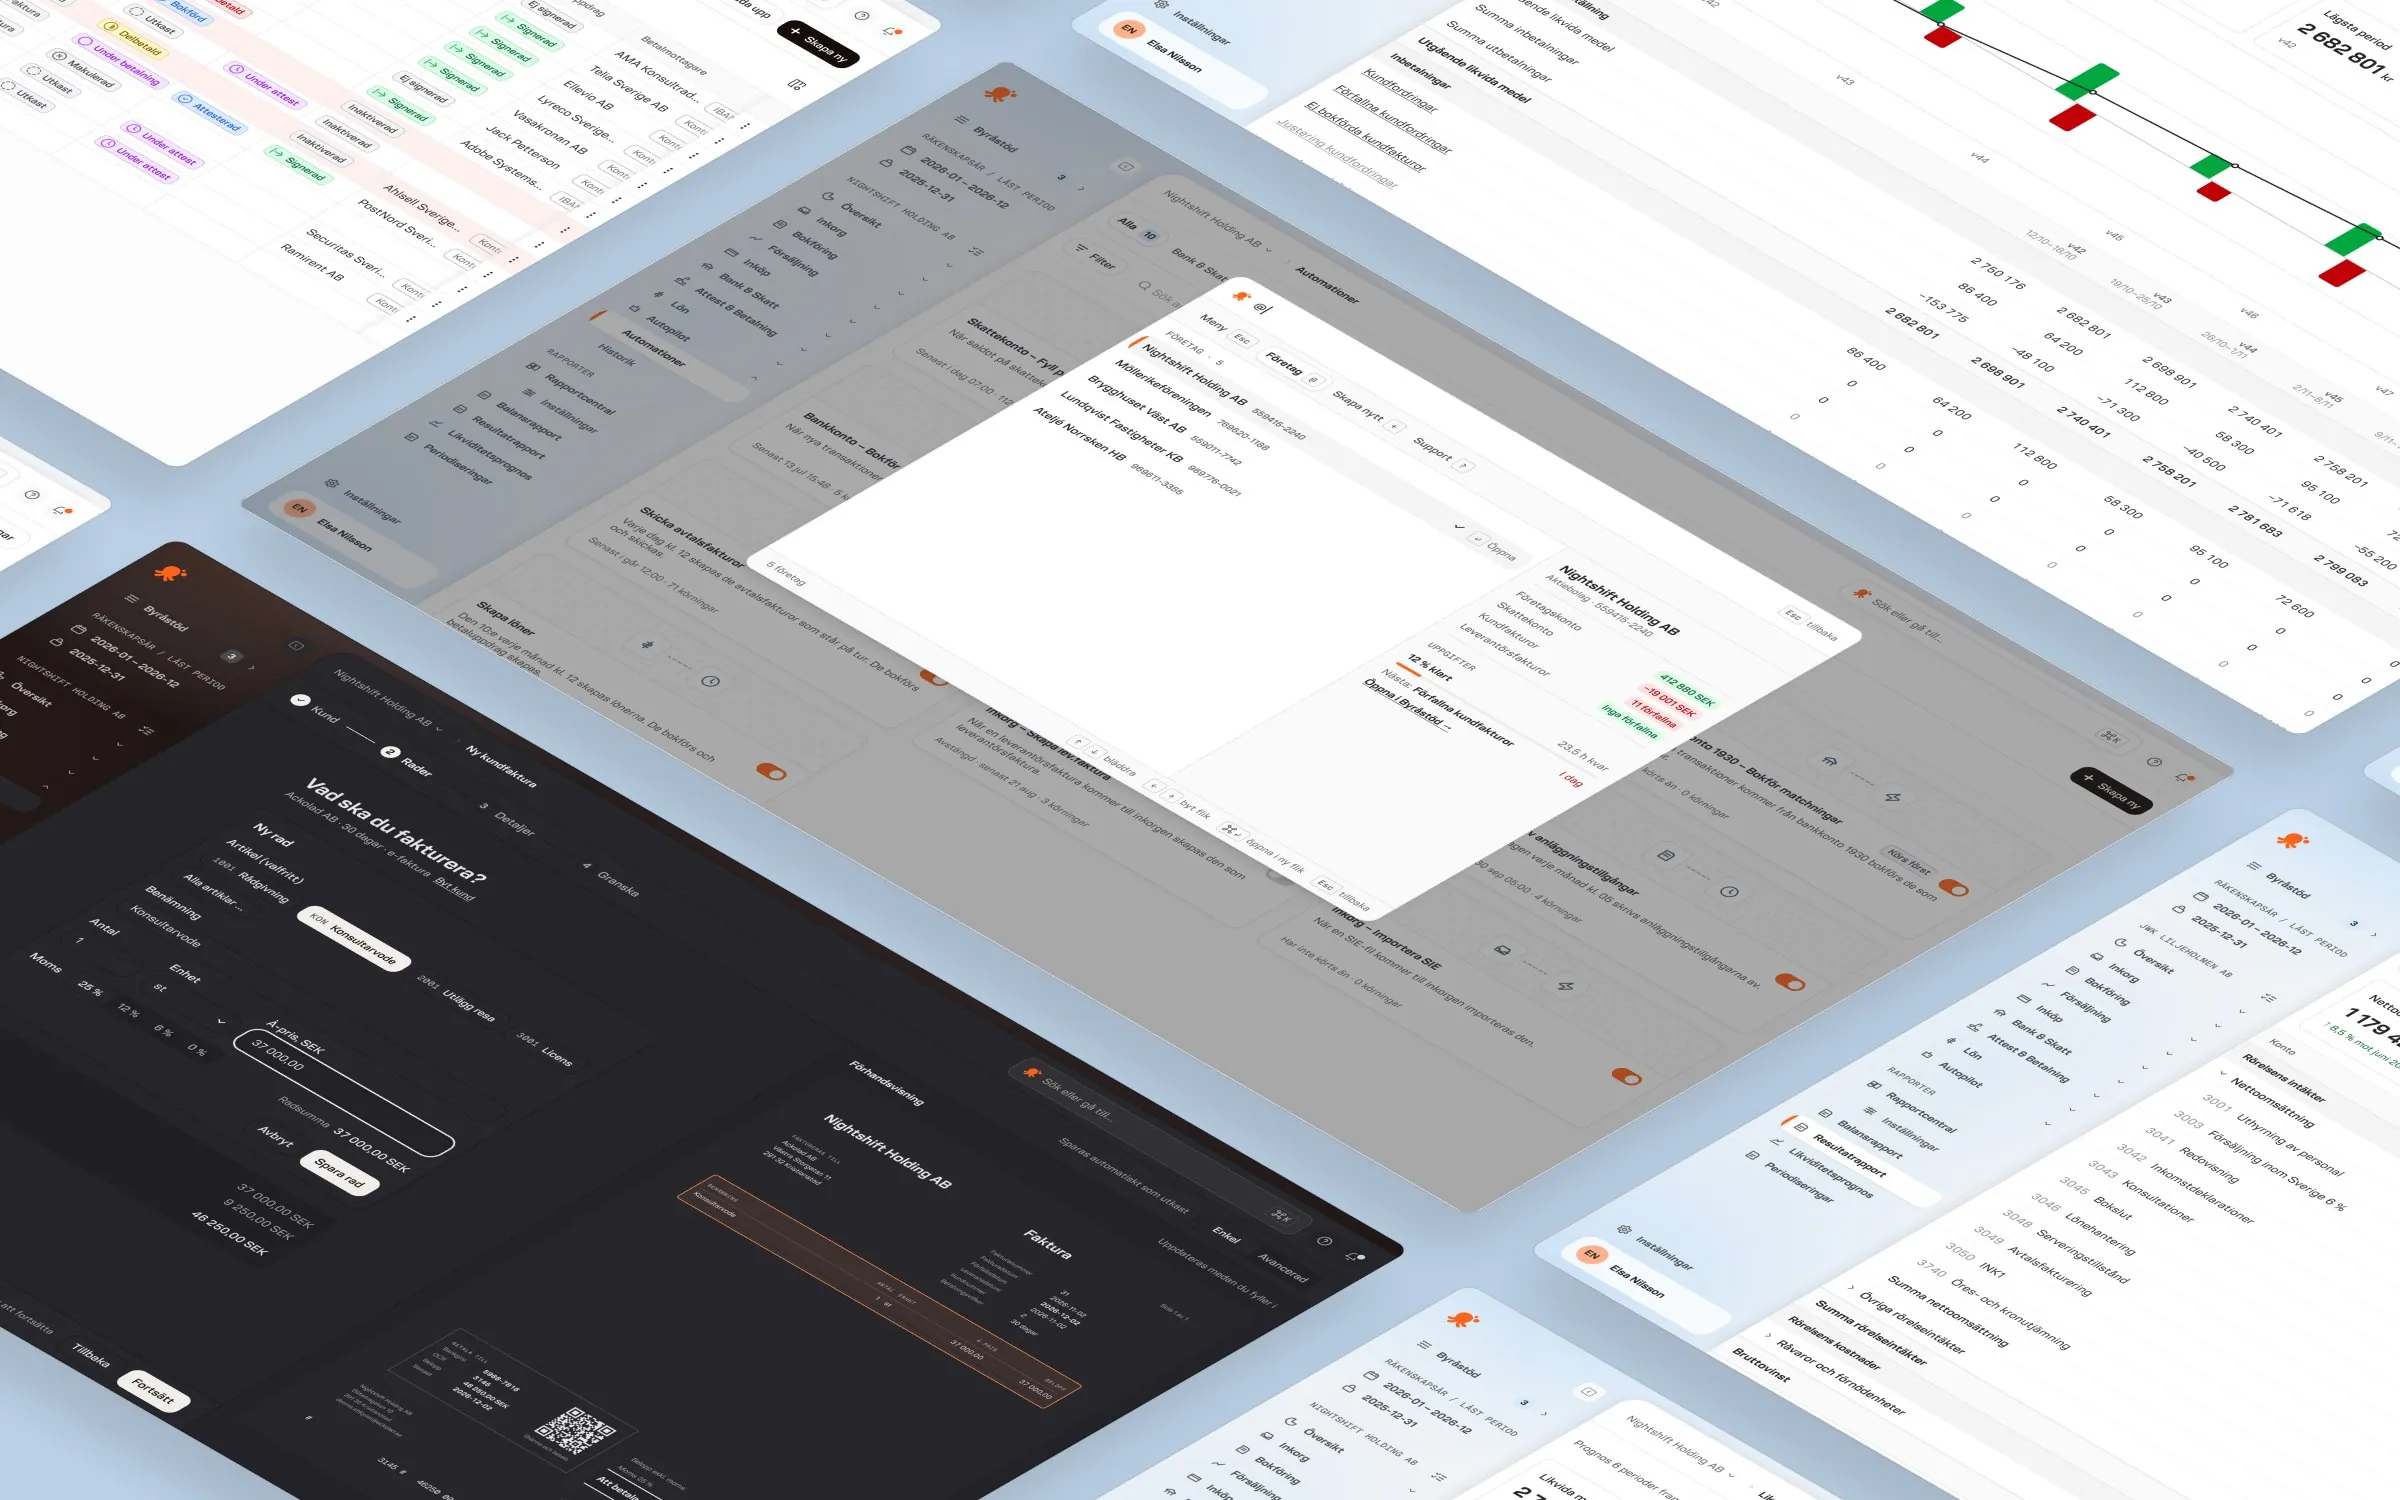
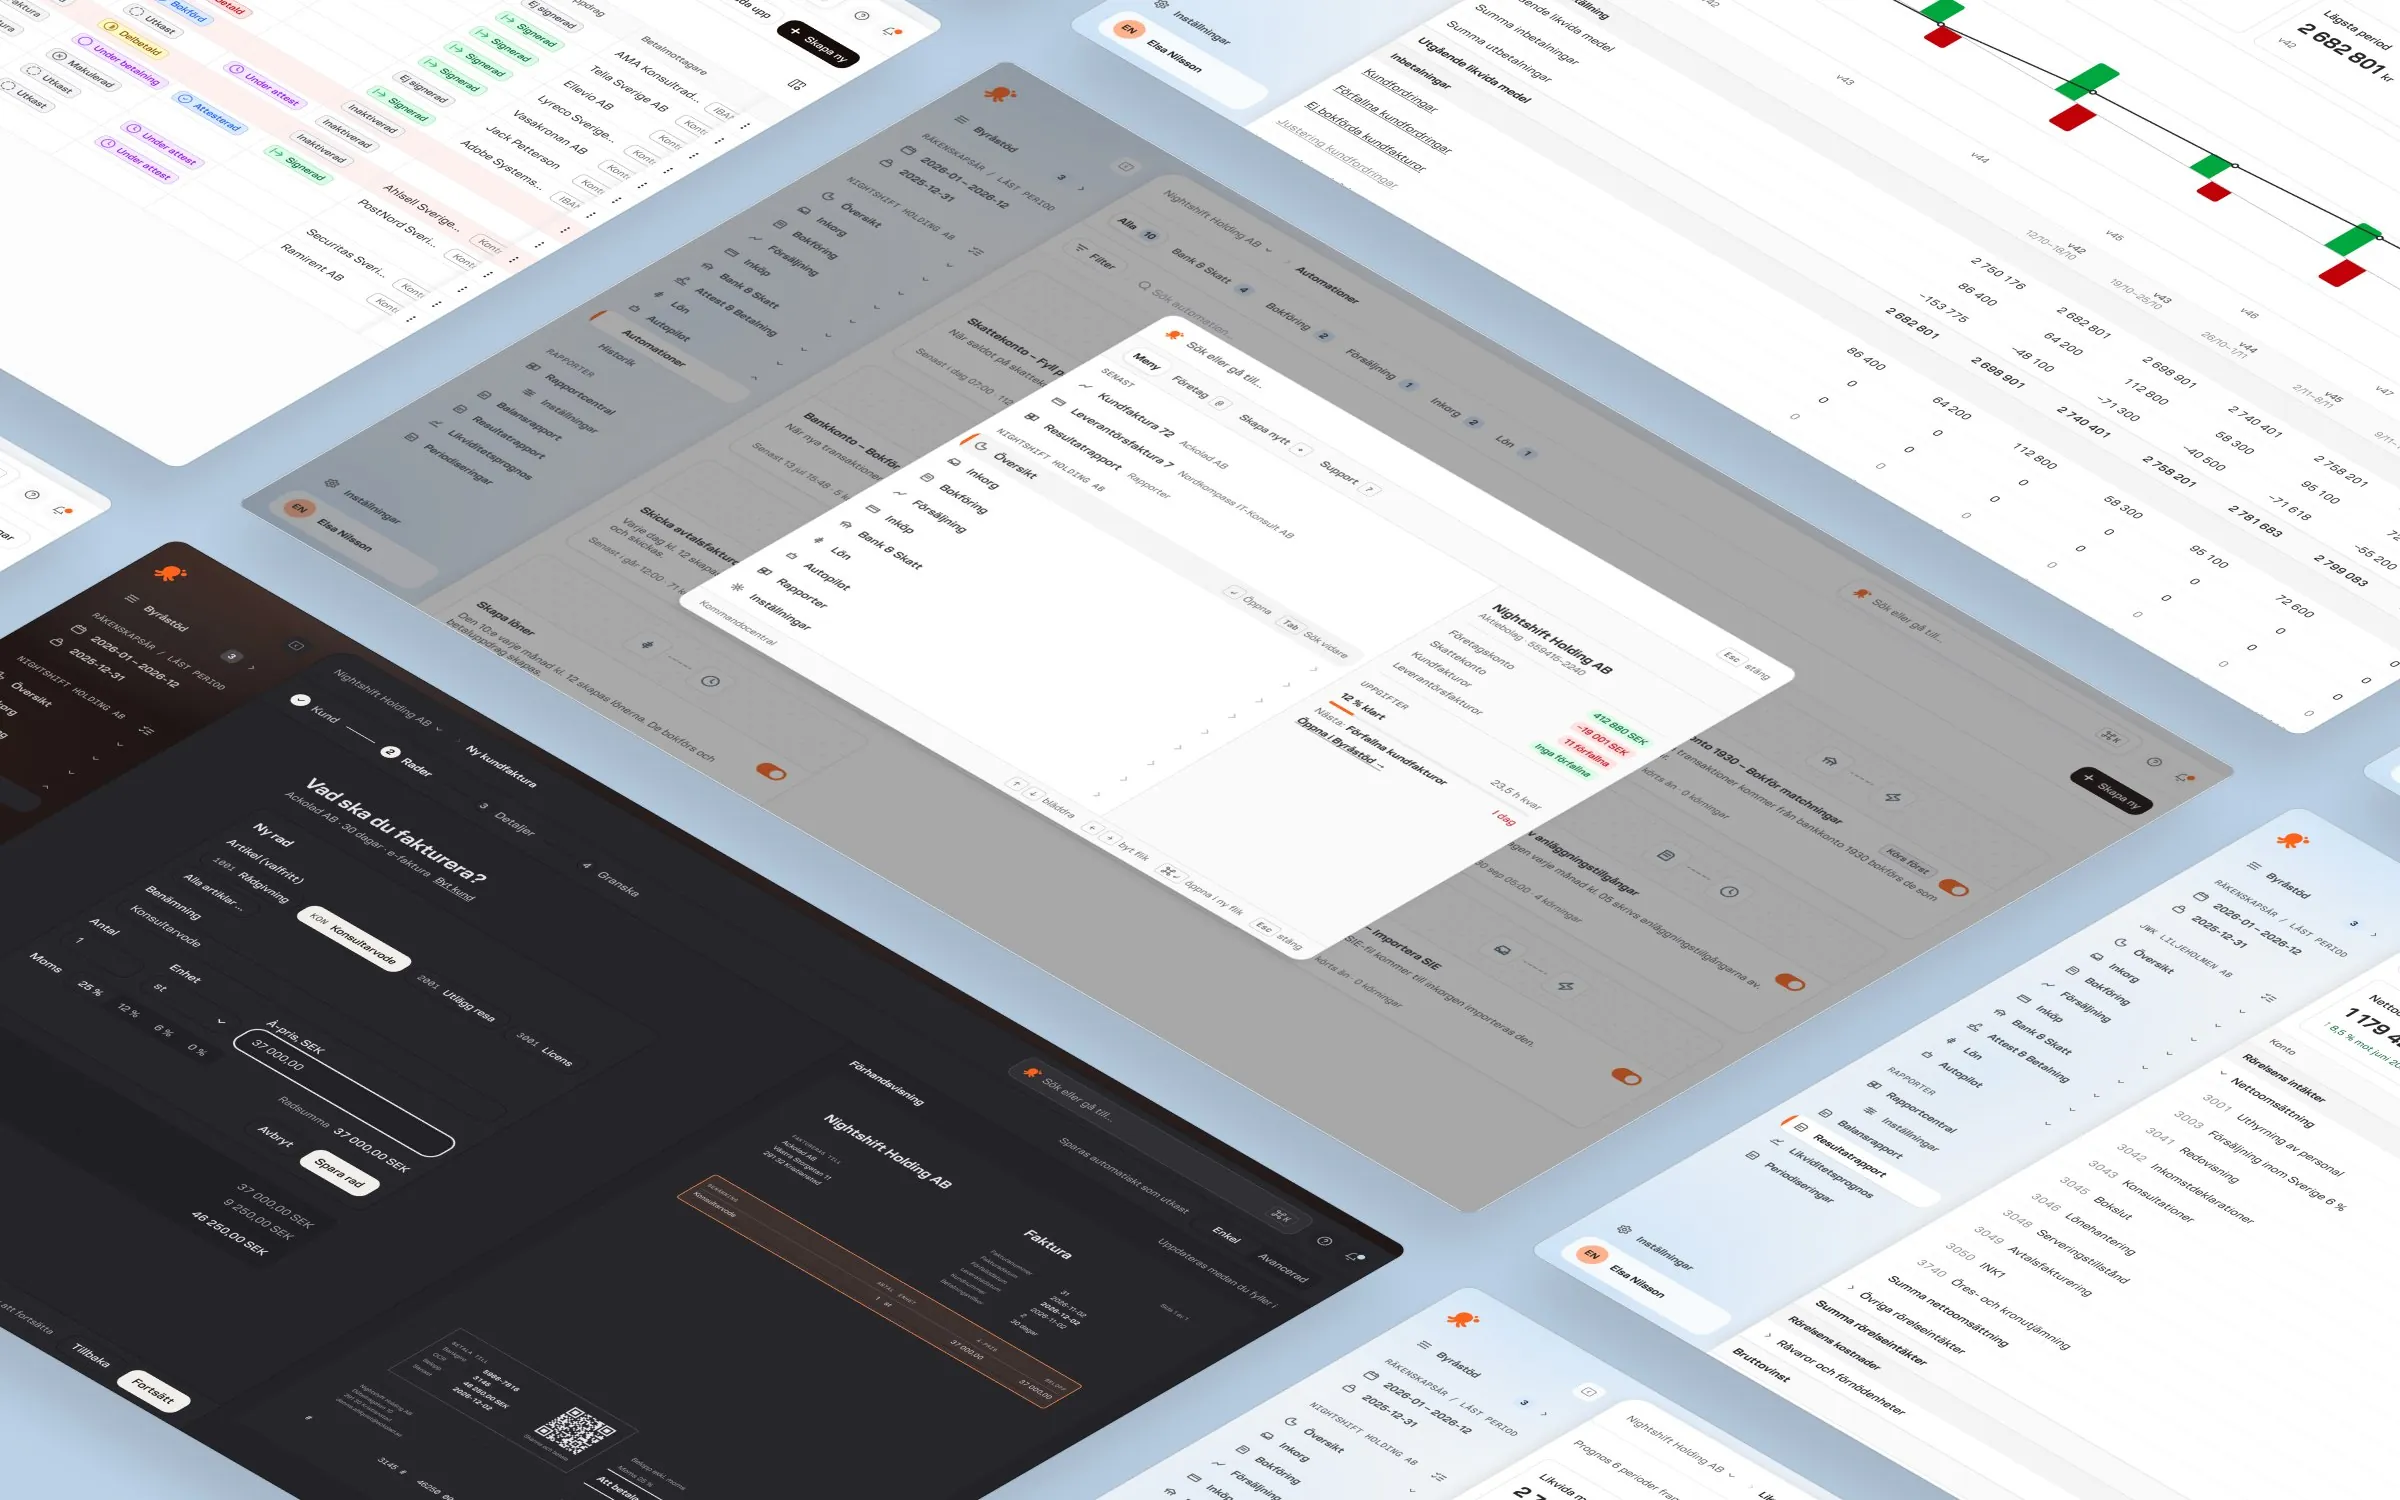
Oqto: updated isometric screens image
Claude-Session: https://claude.ai/code/session_01T8AAM769pNUjzneeyTgJVR

Changed region(s): [[0.3438, 0.184, 0.7812, 0.5213], [0.2812, 0.368, 0.5625, 0.644]]

diff --git a/docs/oqto/index.html b/docs/oqto/index.html
@@ -113,7 +113,7 @@
 <p class="c-step-text">I redesigned a selection of screens chosen to cover as much of the product as possible, and reworked the flows that needed bigger changes. Below is the same screen before and after the redesign.</p>
 </div>
 </div>
-<div data-px="1" data-rv="6" data-lb="1" tabindex="0" role="button" aria-label="Enlarge image" class="rv c-clip"><img class="zm px" src="../assets/oqto-screens-1400.webp?v=742c1b4d" srcset="../assets/oqto-screens-800.webp?v=a48a8559 800w, ../assets/oqto-screens-1400.webp?v=742c1b4d 1400w, ../assets/oqto-screens.webp?v=f983bfaa 2400w" sizes="(min-width: 1440px) 1200px, 92vw" data-lbsrc="../assets/oqto-screens.webp?v=f983bfaa" loading="lazy" decoding="async" alt="Oqto screens in an isometric grid, including automations and a customer invoice in dark mode" width="2400" height="1500"></div>
+<div data-px="1" data-rv="6" data-lb="1" tabindex="0" role="button" aria-label="Enlarge image" class="rv c-clip"><img class="zm px" src="../assets/oqto-screens-1400.webp?v=22856bf3" srcset="../assets/oqto-screens-800.webp?v=e30d79d4 800w, ../assets/oqto-screens-1400.webp?v=22856bf3 1400w, ../assets/oqto-screens.webp?v=b22d48cf 2400w" sizes="(min-width: 1440px) 1200px, 92vw" data-lbsrc="../assets/oqto-screens.webp?v=b22d48cf" loading="lazy" decoding="async" alt="Oqto screens in an isometric grid, including automations and a customer invoice in dark mode" width="2400" height="1500"></div>
 <div data-rv="5" data-sl="1" class="sl rv">
 <img src="../assets/oqto-after-1400.webp?v=e93d20e2" srcset="../assets/oqto-after-800.webp?v=02f722a6 800w, ../assets/oqto-after-1400.webp?v=e93d20e2 1400w, ../assets/oqto-after.webp?v=5516f302 2400w" sizes="(min-width: 1440px) 1200px, 92vw" data-lbsrc="../assets/oqto-after.webp?v=5516f302" loading="lazy" decoding="async" alt="Supplier invoices after the redesign" width="2400" height="1500" draggable="false">
 <img class="bf" src="../assets/oqto-before-1400.webp?v=eef3b59c" srcset="../assets/oqto-before-800.webp?v=f0b9e688 800w, ../assets/oqto-before-1400.webp?v=eef3b59c 1400w, ../assets/oqto-before.webp?v=911566ef 2400w" sizes="(min-width: 1440px) 1200px, 92vw" data-lbsrc="../assets/oqto-before.webp?v=911566ef" loading="lazy" decoding="async" alt="Supplier invoices before the redesign" width="2400" height="1500" draggable="false">

diff --git a/site/build.py b/site/build.py
@@ -19,7 +19,7 @@ ASSETS = {
     "c4459226de797c4df204a6b0b06ca3d5": "svartanatt.jpg", "fec15f3ac0007fd30fc3f6f249fd448c": "henrik.jpg",
     "aa1eb67f8c8be2493bbfd4aa54762e37": "oqto-type.jpg", "471465112e013b29ffcea0fa0ea3b559": "oqto-components.jpg",
     "c34dd534a3003ee261711ca87890d62c": "oqto-dark.jpg", "b7a1f7ae78d363ddf79c024ff4bfa8f4": "oqto-light.jpg",
-    "c34b591a7f8fddf09f75926bdbe9cb4d": "oqto-screens.jpg", "9aed89d8ef290ab64dbcbde6ca8f4fda": "oqto-screens.jpg", "a67261e7335ce425f5cbf03bea56eee6": "oqto-after.jpg",
+    "c34b591a7f8fddf09f75926bdbe9cb4d": "oqto-screens.jpg", "9aed89d8ef290ab64dbcbde6ca8f4fda": "oqto-screens.jpg", "6f9deb035305d822828b08e689c25451": "oqto-screens.jpg", "a67261e7335ce425f5cbf03bea56eee6": "oqto-after.jpg",
     "24c4ba42e7d66d0e7984402ead110cda": "oqto-before.jpg", "a06f2b58758b6fb555fed11e960a2e03": "oqto-app.jpg",
     "637462e7e8cb1a3e784b541fafad197d": "tink-logo.jpg", "d231f1039acc7b8c33ee891994a401d8": "tink-logo.jpg", "6e3a6e0409bc43d9788ccd3c57f38416": "tink-colours.jpg",
     "8ccadca1c7c70a65154867eb4540ba2f": "tink-poster.jpg", "9a65abafdb9345d5e481ffe969c22879": "tink-type.jpg",
